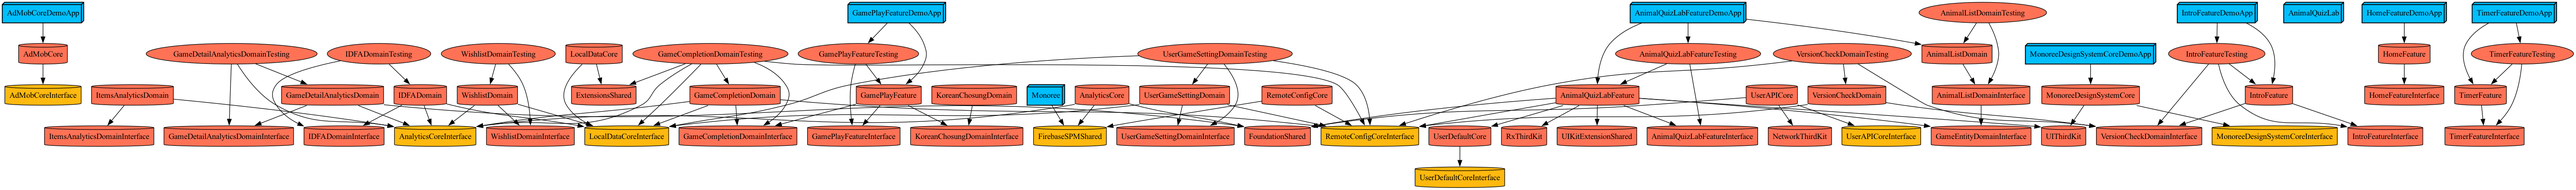
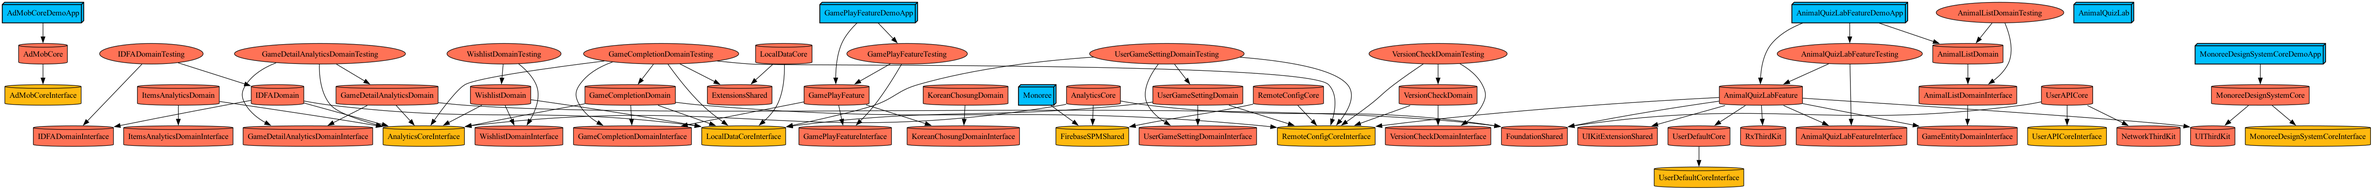
[#151] 사용하지 않는 모듈 삭제

diff --git a/Tuist/ProjectDescriptionHelpers/Modules/FeatureModule.swift b/Tuist/ProjectDescriptionHelpers/Modules/FeatureModule.swift
@@ -3,9 +3,6 @@ import ProjectDescription
 public enum FeatureModule: String, CaseIterable {
 	case AnimalQuizLabFeature
     case GamePlayFeature
-    case HomeFeature
-	case IntroFeature
-    case TimerFeature
     
     public var name: String {
         self.rawValue
